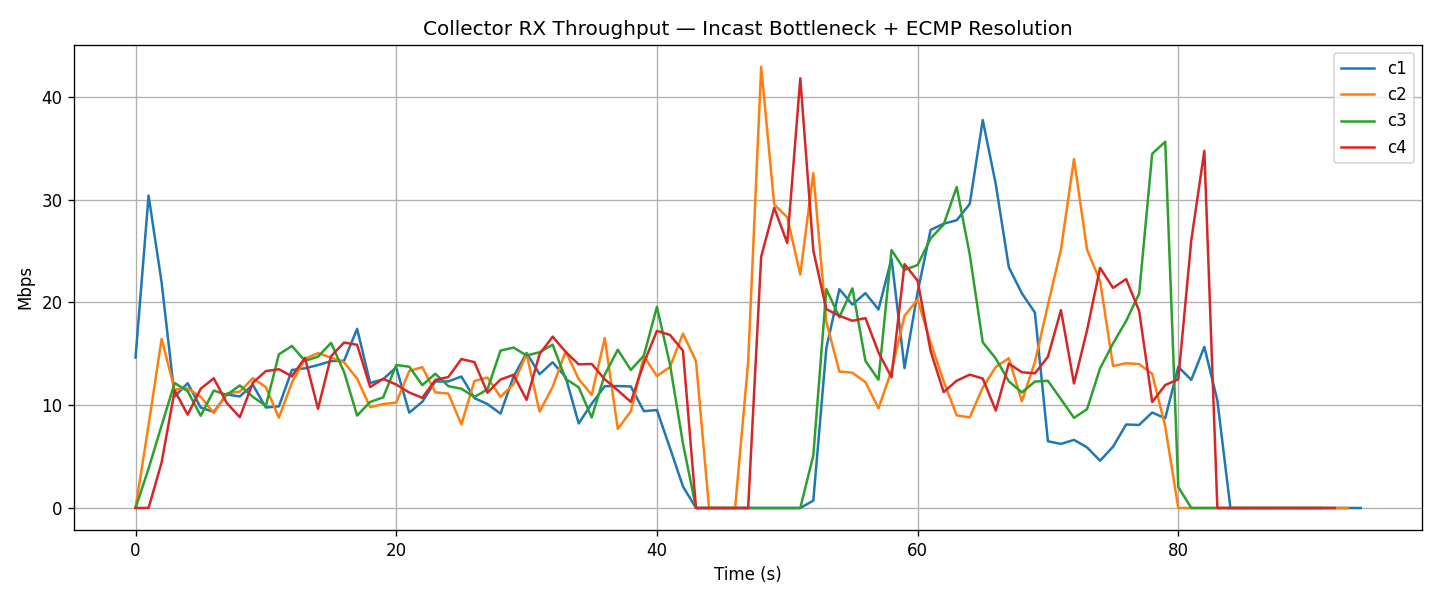
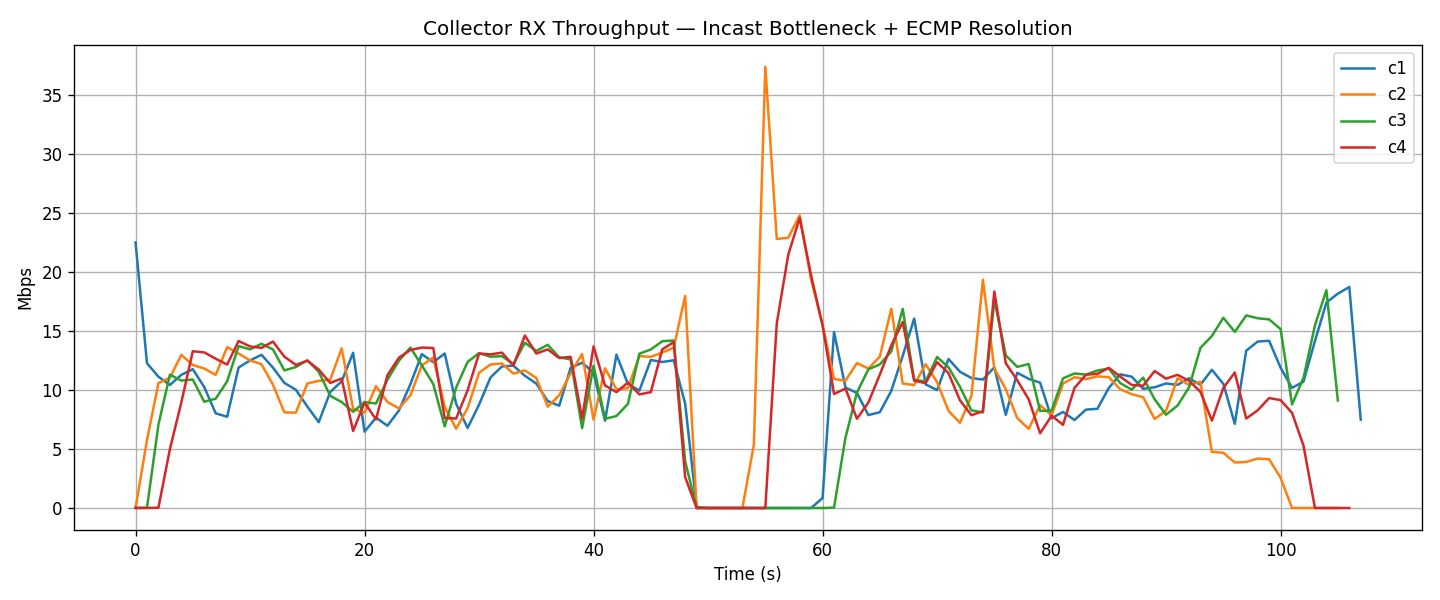
commenti

diff --git a/controller/pox/ext/ml_routing.py b/controller/pox/ext/ml_routing.py
@@ -1,24 +1,24 @@
 import time
 from collections import defaultdict
 
-from pox.core import core
-import pox.openflow.libopenflow_01 as of
-from pox.lib.util import dpid_to_str
-from pox.lib.addresses import IPAddr
-from pox.lib.recoco import Timer
+from pox.core import core   #accesso agli eventi e alle connessioni OpenFlow
+import pox.openflow.libopenflow_01 as of  #reazione dei messaggi OpenFlow 1.0, come richieste di statistiche e regole
+from pox.lib.util import dpid_to_str    #rende leggibili nei log gli identificatori degli switch
+from pox.lib.addresses import IPAddr     # rappresenta indirizzi IP nel formato previsto da POX
+from pox.lib.recoco import Timer            #esegue periodicamente una funzione
 
 log = core.getLogger()
 
 POLL_INTERVAL   = 2       # statistiche flusso 
-REPORT_INTERVAL = 20      # distribuzione del carico tra gli spine
+REPORT_INTERVAL = 20      # stampare distribuzione del carico tra gli spine
 IDLE_TIMEOUT    = 10      # terminazione della regola se non ci sono pacchetti per 10s
-HARD_TIMEOUT    = 120     # ultimo byte di un flusso -> termina la regola dopo 120s
-MIN_ROUND_GAP   = 5       # conns con lo stesso sport entro 5s -> stesso round
+HARD_TIMEOUT    = 120     # scadenza massima di una regola
+MIN_ROUND_GAP   = 5       # Distingue un nuovo round da un’altra connessione ravvicinata dello stesso worker
 DV_MIN          = 500000  # ignora le piccole connessioni di controllo/ACK per Dv
 #_report_distribution monitora la divisione dello spine
 # e promuove automaticamente self.routing_mode da "single" -> "balanced"
 ROUTING_MODE    = "single"  #forza ogni flusso su un solo spine (baseline per confronto).
-UNEVEN_RATIO    = 1.25   # max/min spine-load ratio above which we call it "uneven"
+UNEVEN_RATIO    = 1.25   # max/min spine-load ratio 
 
 
 class MLRoutingApp(object):
@@ -29,7 +29,7 @@ class MLRoutingApp(object):
         #topologia switch-switch e switch-host
         self.graph = {}               # dpid -> {neighbor_dpid: out_port}
         self.mac_to_location = {}      # mac  -> (dpid, port)
-        
+        #dizionario statico
         self.collectors = {
             IPAddr("10.0.1.1"): "blue",
             IPAddr("10.0.1.2"): "green",
@@ -37,34 +37,35 @@ class MLRoutingApp(object):
             IPAddr("10.0.1.4"): "yellow",
         }
 
-        # discovery / control state 
-        self.active_workers   = {v: set() for v in self.collectors.values()}
-        self.training_start_t = {v: None  for v in self.collectors.values()}
-        self.spine_load       = {v: defaultdict(int) for v in self.collectors.values()}
-        self.global_start     = None    # tempo in cui il primo worker è stato visto (per calcolare phi_v)
+        #dati per training e routing
+        self.active_workers   = {v: set() for v in self.collectors.values()}  # IP dei worker visti, separati per training
+        self.training_start_t = {v: None  for v in self.collectors.values()}  # primo istante in cui si vede ciascun training
+        self.spine_load       = {v: defaultdict(int) for v in self.collectors.values()}  # conteggio cumulativo dei flussi assegnati a ogni spine
+        self.global_start     = None    # istante del primo worker visto; riferimento per calcolare phi
 
         # reactive routing state 
-        self.routing_mode = ROUTING_MODE   # può cambiare runtime se si rileva congestione
+        self.routing_mode = ROUTING_MODE   # modalità attiva: "single" o "balanced"
 
-        # traffic-characterization state 
-        self.worker_training  = {}               # worker_ip -> nome del training
-        self.conn_seen        = set()            # insieme delle coppie (worker_ip, tcp_src_port) processate almeno una volta
-        self.round_start      = {}               # worker_ip -> timestamp dell'ultimo round iniziato per quel worker
-        self.first_round_start = {}              # worker_ip -> timestamp del primo round, mai più modificato
-        self.round_count      = defaultdict(int) # worker_ip → quanti round ha completato finora quel worker
-        self.Tv_samples       = defaultdict(list) # worker_ip -> [inter-round gaps] lista scarti temporali tra round successivi (per calcolare Tv)
-        self.phi              = {}               # worker_ip -> phase offset
-        self.conn_dpids       = defaultdict(set)  # (wip, sport) -> insieme di dpid degli switch che hanno confermato che quel flusso è ancora vivo
-        self.conn_bytes       = {}                 # (wip, sport) -> byte_count più alto osseravto
+        #dati per analizzare connessioni e round
+        self.worker_training  = {}               # IP worker -> training a cui appartiene
+        self.conn_seen        = set()            # connessioni già rilevate: (IP worker, porta TCP sorgente)
+        self.round_start      = {}               # IP worker -> istante dell'ultimo round rilevato
+        self.first_round_start = {}              # IP worker -> istante del primo round rilevato
+        self.round_count      = defaultdict(int) # IP worker -> round rilevati; parte da 0
+        self.Tv_samples       = defaultdict(list) # IP worker -> intervalli tra round, usati per stimare Tv
+        self.phi              = {}               # IP worker -> ritardo del primo avvio rispetto al primo worker
+        self.conn_dpids       = defaultdict(set)  # connessione -> switch che la segnalano ancora attiva
+        self.conn_bytes       = {}               # connessione -> massimo byte_count osservato sugli switch
 
-        Timer(POLL_INTERVAL,   self._request_stats,       recurring=True)
+        # pooling statistiche e report/aurocorrezione 
+        Timer(POLL_INTERVAL,   self._request_stats,       recurring=True)  
         Timer(REPORT_INTERVAL, self._report_distribution, recurring=True)
         log.info("ML Routing up  |  starting mode=%s", self.routing_mode)
 
      # Contabilità della topologia
     
-    # quando uno switch stabilisce il canale di controllo col controller
-    def _handle_ConnectionUp(self, event):
+    # gestisce la connessione di uno switch e inizializza il suo stato
+    def _handle_ConnectionUp(self, event): # cancella tutte le regole precedenti e inizializza il grafo
         self.graph.setdefault(event.dpid, {})
         msg = of.ofp_flow_mod()
         msg.match = of.ofp_match()
@@ -72,7 +73,7 @@ class MLRoutingApp(object):
         event.connection.send(msg)
         log.info("Switch connected: %s", dpid_to_str(event.dpid))
     #ogni link scoperto aggiorna il grafo in entrambe le direzioni
-    def _handle_LinkEvent(self, event):
+    def _handle_LinkEvent(self, event): # aggiorna self.graph con i link tra switch
         lk = event.link
         if event.added:
             self.graph.setdefault(lk.dpid1, {})[lk.dpid2] = lk.port1
@@ -107,8 +108,8 @@ class MLRoutingApp(object):
                 if nb not in path:
                     queue.append(path + [nb])
         return paths
-
-    def _spine_on_path(self, path):
+    # ritorna il primo spine trovato in un cammino
+    def _spine_on_path(self, path): 
         for n in path:
             if self._is_spine(n):
                 return n
@@ -148,7 +149,7 @@ class MLRoutingApp(object):
         return best[2], best[1]
 
     # Caratterizzazione del traffico 
-    # ogni round di iperf3 apre una connessione TCP nuova
+    # ogni round di iperf3 apre una connessione TCP nuova. riconosce le connessioni e prova a raggrupparle in round
     def _note_connection(self, training, wip, sport):
         """Called on the first packet of a worker->collector flow."""
         key = (wip, sport)
@@ -174,7 +175,7 @@ class MLRoutingApp(object):
         else:
             log.debug("[DBG] %s sport=%d  SAME round (gap=%.3fs < %ds)",
                       wip, sport, now - last, MIN_ROUND_GAP)
-    #richiesta di statistiche di flusso
+    #richiesta di statistiche di flusso. chiede  einterpreta statistiche agli switch
     def _request_stats(self):
         for c in core.openflow.connections:
             c.send(of.ofp_stats_request(body=of.ofp_flow_stats_request()))
@@ -192,14 +193,14 @@ class MLRoutingApp(object):
             wip = str(m.nw_src)
             key = (wip, m.tp_src)
             here.add(key)
-            self.conn_dpids[key].add(dpid)
+            self.conn_dpids[key].add(dpid) #dichiara che questo switch ha visto il flusso solo quando riceve la statistica di flusso
             # aggiorna il byte_count più alto osservato per questo flusso
             if stat.byte_count > self.conn_bytes.get(key, 0):
                 self.conn_bytes[key] = stat.byte_count
             self.worker_training[wip] = self.collectors[m.nw_dst]
 
         # flussi che questo switch segnalava prima ma non più
-        # Only fire "done" when the flow has disappeared from ALL switches that had it.
+        # regola scaduta su questo switch -> aspetta che il flusso è sparito da tutti gli switch che lo avevano visto
         for key in list(self.conn_dpids):
             if dpid not in self.conn_dpids[key]:
                 continue         # questo switch non lo ha mai avuto, salta
@@ -210,7 +211,7 @@ class MLRoutingApp(object):
                 continue         # ancora vivo su almeno un altro switch
             # connessione conclusa (sparito da ogni switch che l'aveva)
             dv = self.conn_bytes.pop(key, 0)
-            del self.conn_dpids[key]
+            del self.conn_dpids[key] #insieme di swich che avevano visto il flusso, ora vuoto
             if dv < DV_MIN:
                 continue
             wip, _sport = key
@@ -233,7 +234,7 @@ class MLRoutingApp(object):
                      "%.1fs" % Tv if Tv else "?",
                      self.phi.get(wip, 0.0),
                      rc)
-    
+    # iassume i contatori e può cambiare la modalità di routing
     def _report_distribution(self):
         congested = False
         for t, load in self.spine_load.items():
@@ -263,6 +264,7 @@ class MLRoutingApp(object):
                         "'single' -> 'balanced'")
 
     # Forwarding
+    #gestisce il pacchetto iniziale, sceglie il percorso e installa le regole
     #MAC learning passivo
     def _handle_PacketIn(self, event):
         pkt = event.parsed
@@ -306,7 +308,7 @@ class MLRoutingApp(object):
         if path is None:
             self.flood_to_hosts(event)
             return
-
+        #instradmento proattivo sull'interno del cammino scatenato da un evento reattivo
         if is_incast and spine is not None:
             self.spine_load[training][spine] += 1
             log.info("[%s] flow %s via spine %s  (load: %s)",
@@ -334,7 +336,7 @@ class MLRoutingApp(object):
             conn = core.openflow.getConnection(node)
             if conn:
                 conn.send(msg)
-
+        #il pacchetto in ingresso viene inoltrato al primo switch del cammino
         op_first = dst_port if dpid == dst_dpid else self.graph[dpid][path[1]]
         m2 = of.ofp_packet_out()
         m2.data = event.ofp
@@ -359,6 +361,6 @@ class MLRoutingApp(object):
                     msg.actions.append(of.ofp_action_output(port=p))
                 conn.send(msg)
 
-#punto di ingresso del modulo POX
+#punto di ingresso del modulo POX per registarre la classe
 def launch():
     core.registerNew(MLRoutingApp)

diff --git a/incast_generator.py b/incast_generator.py
@@ -7,7 +7,7 @@ except ImportError:
 
 # paramentri globali
 C_LINK    = 100.0    # Mbps   data link capacity
-RTT       = 0.005    # RTT simulato (tc netem 0.5ms * 2 hops * 5)
+RTT       = 0.005    # RTT simulato, usato per la dimensione TCP
 ALPHA     = 1.5      # fattore di sicurezza sul prodotto banda-ritardo teorico
 BASE_PORT = 5000     # schema porte deterministico: w1->5001, w2->5002, ...
 
@@ -23,6 +23,7 @@ TRAININGS = [
 ]
 
 # Funzioni di utilità
+#interroga docker ps e costruisce un dizionario {nome_nodo: nome_container}
 def get_container_map():
     r = subprocess.run(["docker","ps","--format","{{.Names}}"],
                        capture_output=True, text=True)
@@ -40,7 +41,7 @@ def docker_exec(node, cmd, cmap, sync=False):
     if sync:
         return subprocess.run(full, capture_output=True, text=True).stdout.strip()
     subprocess.Popen(full)
-
+#foròmula banda-ritardo per calcolare la dimensione della finestra TCP in byte
 def compute_window_bytes(f_v):
     return int(ALPHA * (f_v * 1e6) * RTT / 8)
 
@@ -48,6 +49,7 @@ def get_worker_port(worker):
     return BASE_PORT + int(worker[1:])  
 
 # server iperf3 
+#ogni collector ha tanti server iperf3 quanti sono i suoi worker, ognuno su una porta diversa
 def start_servers(cmap):
     used = set()
     for cfg in TRAININGS:
@@ -64,7 +66,7 @@ def start_client(worker, ip, port, D_mbit, f_v, cmap):
     window = compute_window_bytes(f_v)
     nbytes = int(D_mbit * 1e6 / 8)
     cmd = (f"iperf3 -c {ip} -p {port} -n {nbytes} -w {window} "
-           f"--set-mss 1460 --no-delay > /dev/null 2>&1 &")
+           f"--set-mss 1460 --no-delay > /dev/null 2>&1 &") #limita le dimensioni del segmento e disabilita il Nagle algorithm per ridurre la latenza
     print(f"[FLOW] {worker} -> {ip}:{port}  D={D_mbit}Mb  rate={f_v:.1f}Mbps")
     docker_exec(worker, ["bash","-c",cmd], cmap)
 
@@ -145,9 +147,9 @@ def plot_workers(tx_files, training_name):
 
 #  main 
 def main():
-    print("\n=== PNET Project 4 — Incast Simulation ===\n")
-
-    cmap = get_container_map()
+    print("\n=== PNET Project — Incast Simulation ===\n")
+    #mappa container
+    cmap = get_container_map() 
     print("Container map:")
     for k,v in sorted(cmap.items()): print(f"  {k} -> {v}")
 
@@ -182,7 +184,7 @@ def main():
     for t in threads: t.join()
 
     stop.set()
-    for t in monitors: t.join()  # wait for each monitor to flush its last sample
+    for t in monitors: t.join()  # ferma e attende i monitor
 
     print("\n=== DONE ===\n")
 
